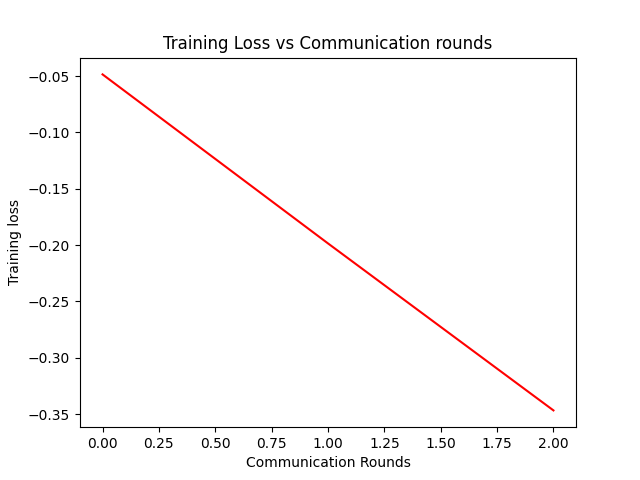
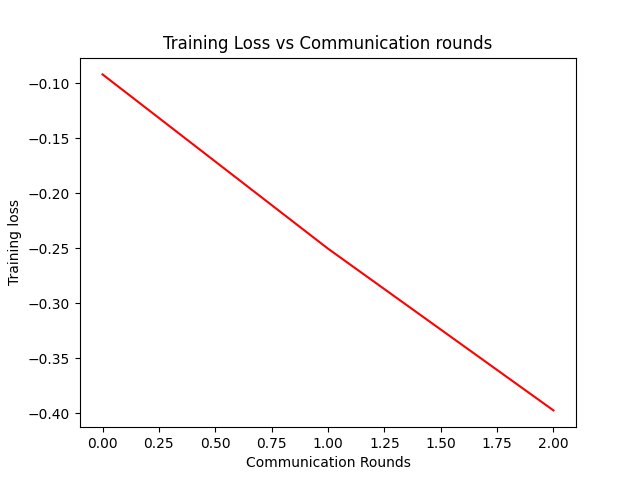
ad

diff --git a/config/options.py b/config/options.py
@@ -11,7 +11,7 @@ def args_parser():
     # federated arguments (Notation for the arguments followed from paper)
     parser.add_argument('--epochs', type=int, default=10,
                         help="number of rounds of training")
-    parser.add_argument('--num_users', type=int, default=100,
+    parser.add_argument('--num_users', type=int, default=5,
                         help="number of users: K")
     parser.add_argument('--frac', type=float, default=0.1,
                         help='the fraction of clients: C')
@@ -25,7 +25,7 @@ def args_parser():
                         help='SGD momentum (default: 0.5)')
 
     # model arguments
-    parser.add_argument('--model', type=str, default='mlp', help='model name')
+    parser.add_argument('--model', type=str, default='mobilenet', help='model name')
     parser.add_argument('--kernel_num', type=int, default=9,
                         help='number of each kind of kernel')
     parser.add_argument('--kernel_sizes', type=str, default='3,4,5',
